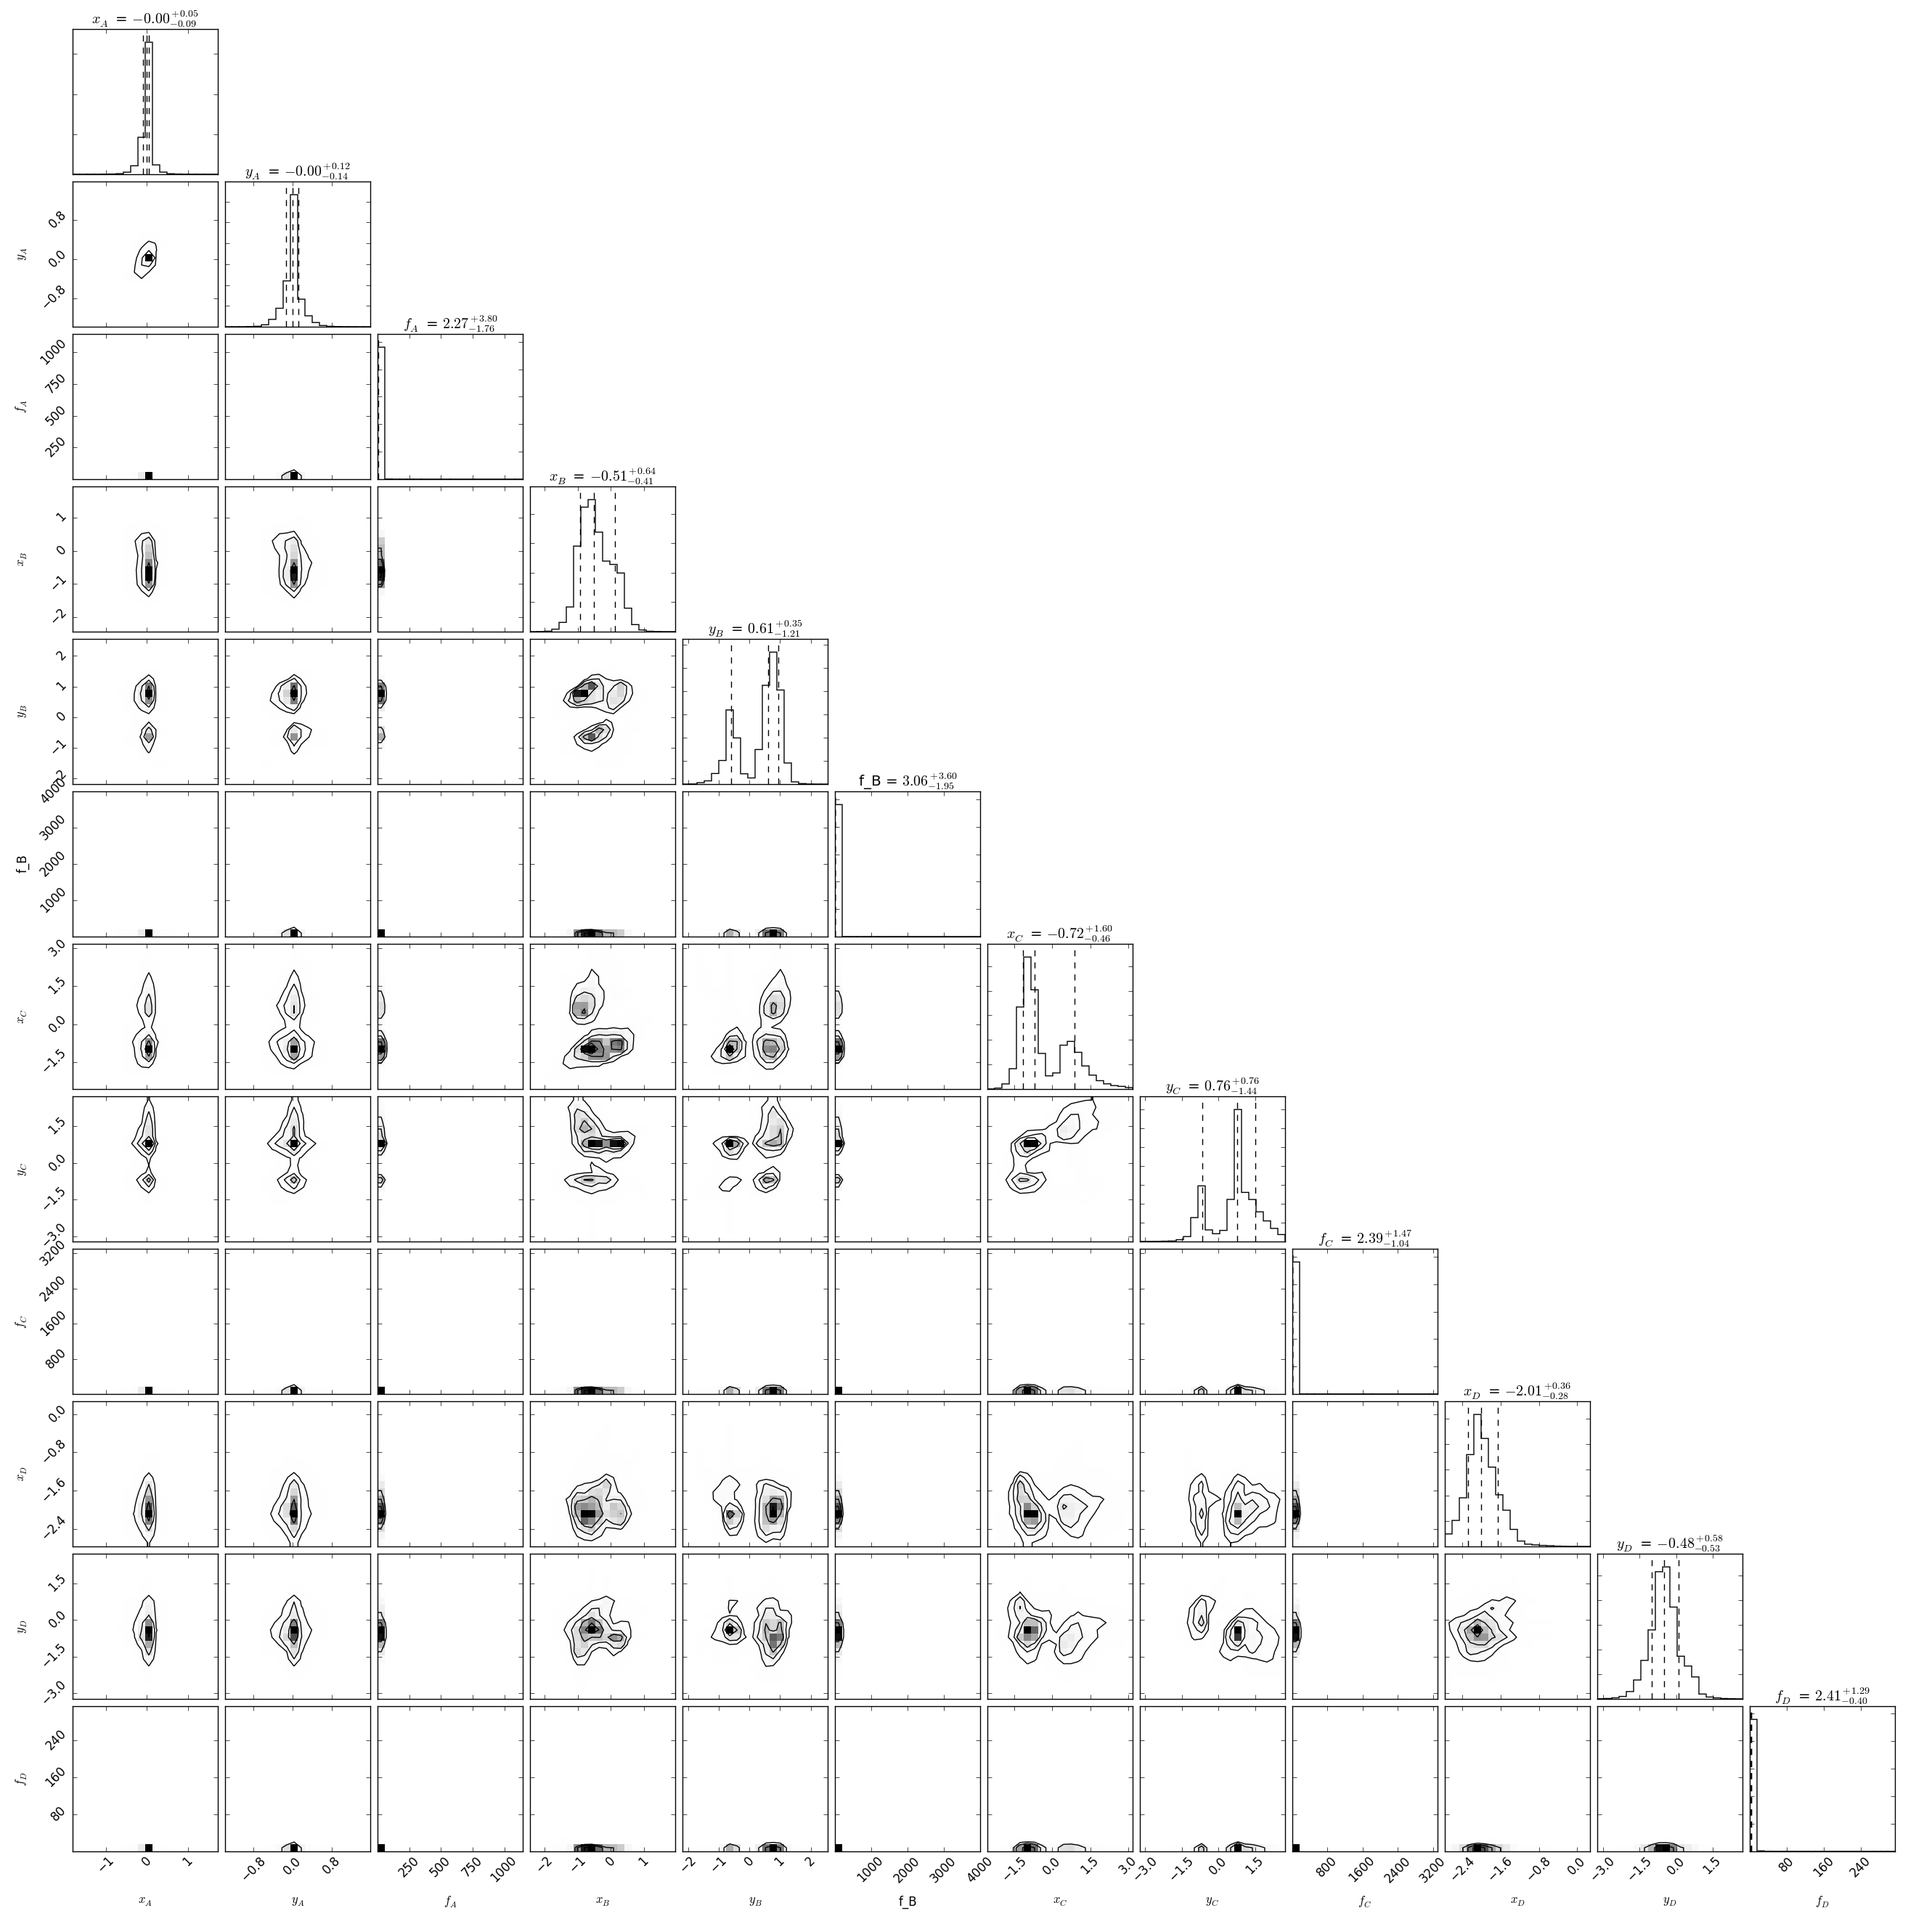
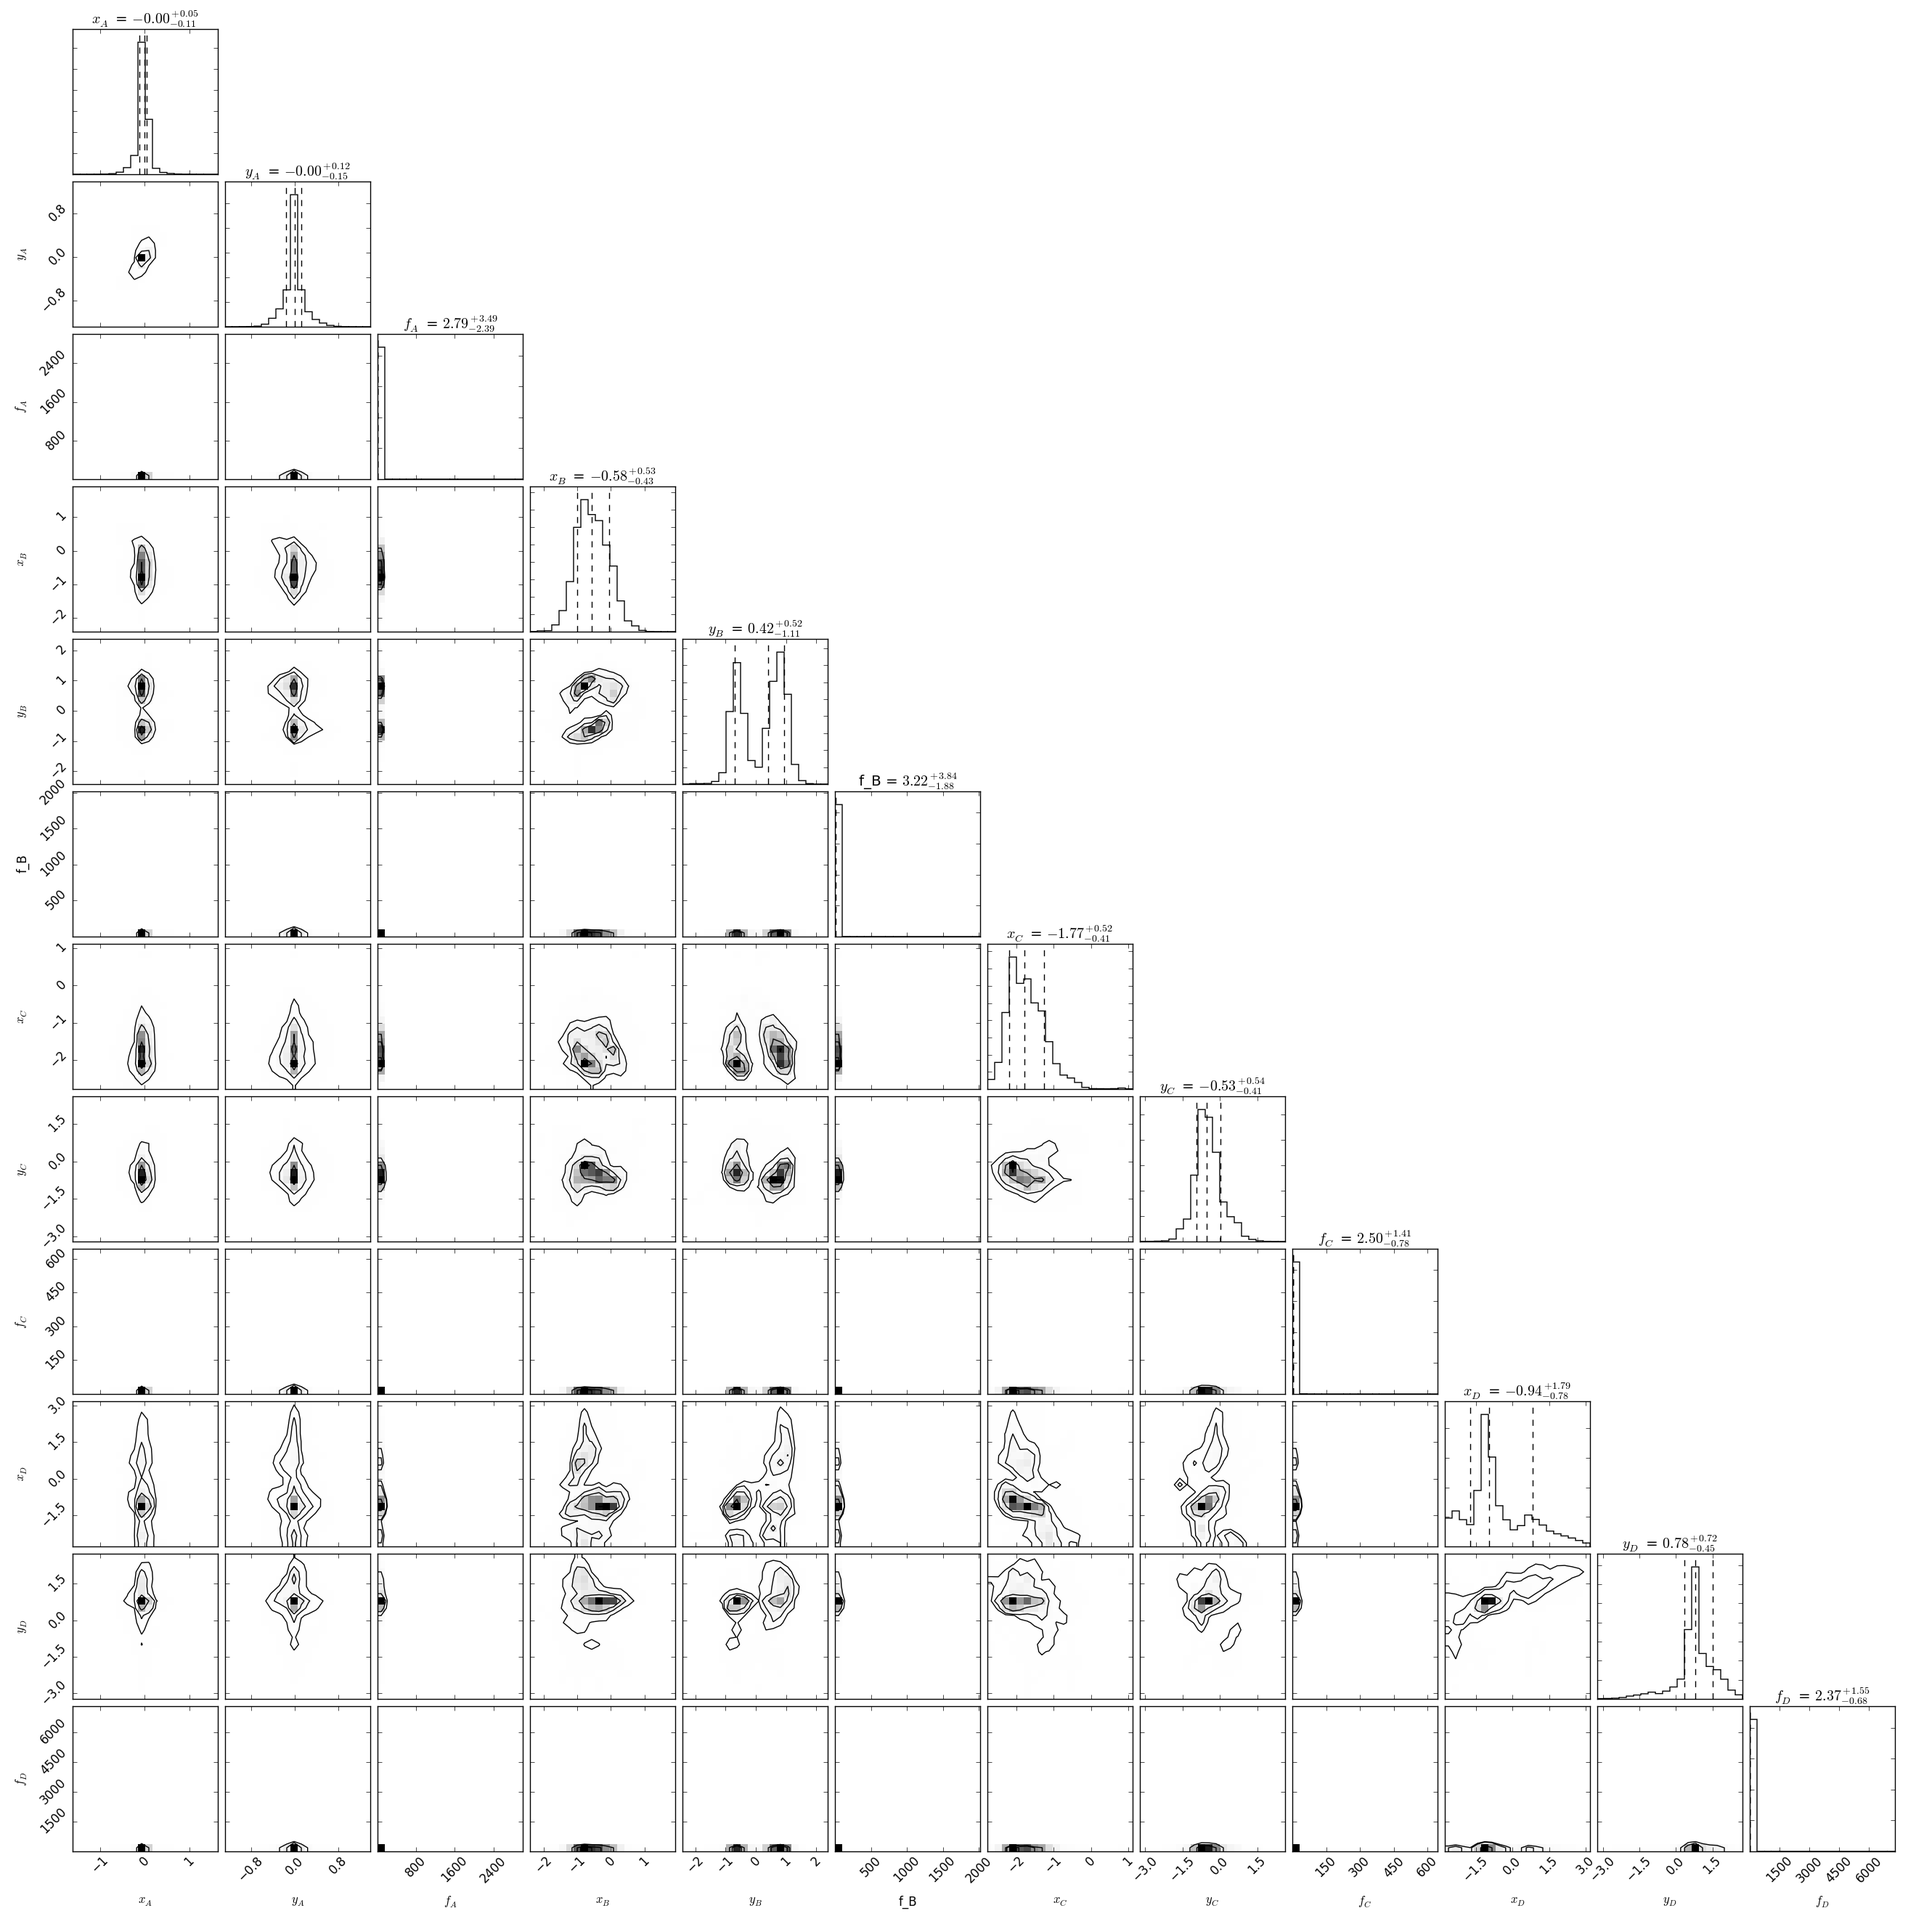
emcee img_sort update

diff --git a/models/B0712/glafic_code/emcee_SIE_sh.py b/models/B0712/glafic_code/emcee_SIE_sh.py
@@ -1,7 +1,7 @@
 import os
 import numpy as np
 import emcee
-import triangle as tri
+import itertools as it
 
 img_obs=np.array([0.0,0.0,15.6,-0.075,-0.16,13.104, -1.185,-0.67,6.5208,-1.71,0.460,1.2792])
 err_obs=np.array([1.0e-6,1.0e-6,3.70,0.01,0.01,2.97,0.01,0.01,1.83,0.06,0.06,0.3])
@@ -103,6 +103,7 @@ def img_sort(model):
 
         rank=np.zeros(12)
         
+        
         # distance
         
         dis=np.zeros((4,4)) # distance to image A,B,C,D
@@ -112,12 +113,6 @@ def img_sort(model):
                 dis[i,j]=(model[i,0]-img_obs[j*3])**2+(model[i,1]-img_obs[j*3+1])**2
 
         '''
-        # pick out img D
-        d=np.argmin(model[:,0]) # x coord (D has most negative x coord)
-        rank[9:]=model[d,:]
-        dis[d]=1000  # get rid of the recorded set
-        '''
-
         # sort distance to find image A->B->C->D
         
         for j in range(4):
@@ -125,6 +120,27 @@ def img_sort(model):
             print model[k,:]
             rank[3*j:3+3*j]=model[k,:]
             dis[k,:]=1000 # kick out from the comparison
+        '''
+
+        ## 4x4 combinations, picking up smallest chi^2
+
+        # permutations (24x4 for quad system)
+        seq=list(it.permutations([0,1,2,3],4))
+        seq=np.array(seq)
+
+        seq_chi=np.zeros(seq.shape[0])
+
+        for i in range(seq.shape[0]):
+            for j in range(seq.shape[1]): # image letter (observation)
+            # img_obs - img_model in permutation order
+                pick=seq[i]
+                seq_chi[i]=seq_chi[i]+dis[pick[j],j]
+
+        k=np.argmin(seq_chi)
+        
+        for i in range(seq.shape[1]):
+            pick=seq[k]
+            rank[3*i:3*i+3]=model[pick[i],:]
 
         return rank
 

diff --git a/python/img_corner.py b/python/img_corner.py
@@ -3,7 +3,7 @@ import triangle
 import matplotlib.pyplot as plt
 #import matplotlib.patches as mpat
 
-file_name=['SIEsh_2_imgchain.dat']
+file_name=['SIEsh_3_imgchain.dat']
 
 k=0
 for i in file_name:

diff --git a/python/emcee_corner.py b/python/emcee_corner.py
@@ -3,7 +3,7 @@ import triangle
 import matplotlib.pyplot as plt
 #import matplotlib.patches as mpat
 
-file_name=['SIEsh_2_chain.dat']
+file_name=['SIEsh_3_chain.dat']
 
 k=0
 for i in file_name:
